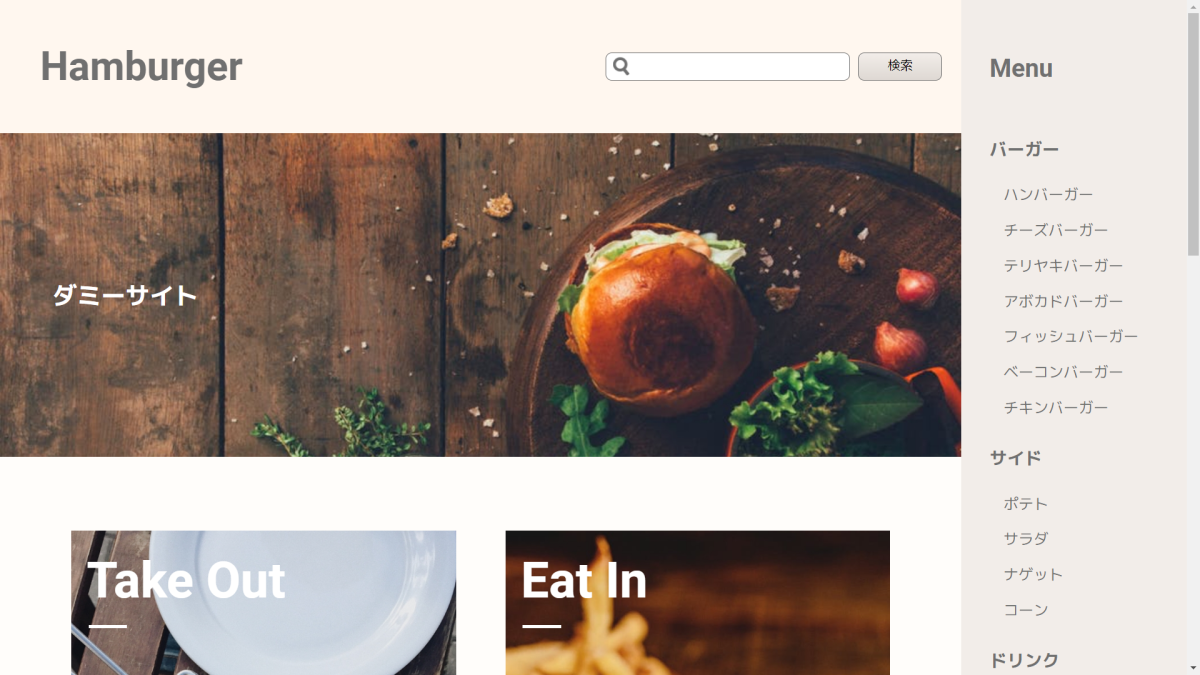
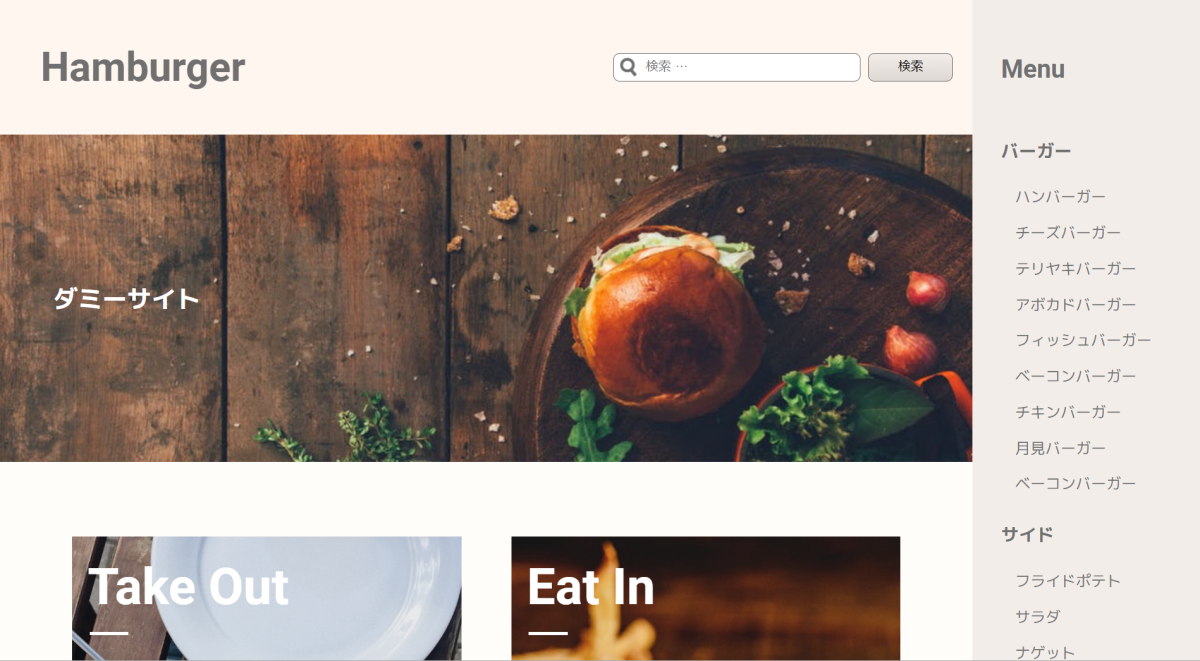
ページネーション完成

diff --git a/css/style.min.css b/css/style.min.css
@@ -1,2 +1,2 @@
-body{background-color:#fffdfa}body.fixed{overflow:hidden}h5,h6{margin:0}a{text-decoration:none}ol,ul{padding:0;margin:0}nav ul{list-style:none}.l-grid{display:grid;grid-template-rows:170px 1fr 118px;grid-template-columns:1fr 19%;grid-template-areas:"header sidebar" "contents sidebar" "footer footer"}.l-grid__item1{grid-area:header}.l-grid__item2{grid-area:contents}.l-grid__item3{grid-area:sidebar}@media(max-width: 834px){.l-grid__item3{position:fixed;z-index:200;top:0;right:-100%;-webkit-transition:all .6s;transition:all .6s}.l-grid__item3.open{-webkit-transform:translateX(-44vw);transform:translateX(-44vw);z-index:200;height:100vh;overflow:auto}}@media(max-width: 834px)and (max-width: 640px){.l-grid__item3.open{-webkit-transform:translateX(-87vw);transform:translateX(-87vw)}}.l-grid__item4{grid-area:footer}@media(max-width: 834px){.l-grid{grid-template-columns:1fr;grid-template-areas:"header" "contents" "footer"}}.c-text__ttl--ja{font-family:"M+ Type-1 (general-j) Bold"}.c-text__ttl--e{font-family:"Roboto"}.c-text__sub-ttl--ja{font-family:"M+ Type-1 (general-j) Bold"}.c-text__sub-ttl--e{font-family:"Roboto"}.c-text--ja{font-family:"M+ Type-1 (general-j) Regular"}.c-text--e{font-family:"M+ M Type-1 (basic latin) Regular"}.c-line{width:49px;border-bottom:4px solid #fff;padding-bottom:10px}.c-bg{background-size:cover;background-repeat:no-repeat;background-position:center}.c-bg--white{background-color:rgba(255,255,255,.8)}.c-bg--black{background-color:rgba(0,0,0,.5)}.c-form__input{border:1px solid #707070;border-radius:.5em}.c-form__button{border:1px solid #707070;border-radius:.5em}.c-button{cursor:pointer;font-family:"Roboto"}.c-overlay{display:none;position:fixed;background:rgba(0,0,0,.5);width:100%;height:100%;top:0;left:0;right:0;bottom:0;z-index:100}.c-titlevisual{height:392px;width:100%;display:-webkit-box;display:-ms-flexbox;display:flex;-webkit-box-align:center;-ms-flex-align:center;align-items:center}@media(max-width: 640px){.c-titlevisual{height:177px}}.c-titlevisual__title{color:#fff;font-size:47px;padding-left:67.4px}@media(max-width: 640px){.c-titlevisual__title{font-size:28px;padding-left:20px}}.c-contents-wrapper{display:-webkit-box;display:-ms-flexbox;display:flex;-webkit-box-orient:vertical;-webkit-box-direction:normal;-ms-flex-direction:column;flex-direction:column;-webkit-box-pack:justify;-ms-flex-pack:justify;justify-content:space-between;height:calc(100% - 187px)}@media(max-width: 834px){.c-contents-wrapper{height:calc(100% - 222px)}}.c-container{width:87%;margin:0 auto;padding:47px 0}@media(max-width: 834px){.c-container{width:90%;padding:28px 0}}@media(max-width: 640px){.c-container{padding:23.5px 0}}.c-card{position:relative;width:100%;font-family:"M+ Type-1 (general-j) Bold";display:-webkit-box;display:-ms-flexbox;display:flex;margin-bottom:23.5px}@media(max-width: 834px){.c-card{margin-bottom:16px}}@media(max-width: 640px){.c-card{-webkit-box-orient:vertical;-webkit-box-direction:normal;-ms-flex-direction:column;flex-direction:column}}.c-card__thumbnail{width:50%}@media(max-width: 640px){.c-card__thumbnail{width:100%}}.c-card__contents{width:50%;display:-webkit-box;display:-ms-flexbox;display:flex;-webkit-box-orient:vertical;-webkit-box-direction:normal;-ms-flex-direction:column;flex-direction:column;-webkit-box-pack:center;-ms-flex-pack:center;justify-content:center}@media(max-width: 640px){.c-card__contents{width:100%}}.c-card__description{font-family:"M+ Type-1 (general-j) Regular"}.c-card__link{display:block;position:absolute;top:0;left:0;width:100%;height:100%}.c-pagination{margin:50px 0;font-size:12.5px;color:#707070;display:-webkit-box;display:-ms-flexbox;display:flex;-webkit-box-pack:center;-ms-flex-pack:center;justify-content:center;-webkit-box-align:center;-ms-flex-align:center;align-items:center}@media(max-width: 834px){.c-pagination{margin:23.5px 0}}.c-pagination__page-count{font-family:"Roboto";margin-right:8px}@media(max-width: 640px){.c-pagination__page-count{display:none}}.c-pagination__ul{display:-webkit-box;display:-ms-flexbox;display:flex}.c-pagination__li{font-family:"Roboto";margin:0 7px;padding:4px 10px;border:1px solid #707070}.c-pagination__li:first-child,.c-pagination__li:last-child{border:none;margin:0}.c-pagination__li:nth-child(2){color:#fff;background-color:#3c2b1c}@media(max-width: 640px){.c-pagination__li{margin:0 5px}.c-pagination__li:not(:first-child):not(:last-child){visibility:hidden}.c-pagination__li:first-child::after{content:" 前へ";font-family:"M+ Type-1 (general-j) Regular";white-space:nowrap}.c-pagination__li:last-child::before{content:"次へ ";font-family:"M+ Type-1 (general-j) Regular";white-space:nowrap}}.p-header{width:100%;background-color:#fff7ef;color:#707070;display:-webkit-box;display:-ms-flexbox;display:flex;-webkit-box-pack:justify;-ms-flex-pack:justify;justify-content:space-between;-webkit-box-align:center;-ms-flex-align:center;align-items:center}@media(max-width: 834px){.p-header{-webkit-box-orient:vertical;-webkit-box-direction:normal;-ms-flex-direction:column;flex-direction:column;-webkit-box-pack:center;-ms-flex-pack:center;justify-content:center;-webkit-box-align:center;-ms-flex-align:center;align-items:center;position:relative}}.p-header__logo{font-size:3.3333333333vw;line-height:1.325;margin-left:4.18%}@media(max-width: 834px){.p-header__logo{font-size:35px;margin-left:0;margin-bottom:29px}}.p-header a{color:#707070}.p-sidebar{width:100%;background-color:#f2ede9;color:#707070;padding-left:12.5%}@media(max-width: 834px){.p-sidebar{padding-left:5.5vw}}@media(max-width: 640px){.p-sidebar{padding-left:10vw}}.p-sidebar__logo{margin-top:63px;margin-bottom:63px;font-size:2.0833333333vw}@media(max-width: 834px){.p-sidebar__logo{visibility:hidden}}.p-sidebar .menu-item-object-category{font-family:"M+ Type-1 (general-j) Bold";font-size:1.4583333333vw}@media(max-width: 834px){.p-sidebar .menu-item-object-category{font-size:18.8px}}.p-sidebar .sub-menu:last-child{padding-bottom:27px}.p-sidebar .menu-item-object-post{padding-left:7%;padding-bottom:16.6px;font-family:"M+ Type-1 (general-j) Regular";font-size:1.25vw}@media(max-width: 834px){.p-sidebar .menu-item-object-post{font-size:15.7px}}.p-sidebar .menu-item-object-post:first-child{padding-top:27px}.p-sidebar .menu-item-object-post:last-child{padding-bottom:6.6px}@media(max-width: 834px){.p-sidebar .menu-item-object-post{padding-left:2vw}}@media(max-width: 640px){.p-sidebar .menu-item-object-post{padding-left:3.5vw}}.p-sidebar a{color:#707070}.p-sidebar a:hover{color:#b8afa7}.p-footer{background-size:cover;background-repeat:no-repeat;background-image:url(../img/footer-bg-pc.jpg);color:#fff;display:-webkit-box;display:-ms-flexbox;display:flex;-webkit-box-pack:center;-ms-flex-pack:center;justify-content:center;-webkit-box-align:center;-ms-flex-align:center;align-items:center}.p-footer__wrapper{text-align:center}.p-footer ul.menu{display:-webkit-box;display:-ms-flexbox;display:flex;font-family:"M+ Type-1 (general-j) Regular";font-size:15.7px;margin-bottom:19px}.p-footer li.menu-item{padding:0 14px;border-right:1px solid #fff}.p-footer li.menu-item:last-of-type{border-right:0}.p-footer__copyright{font-family:"M+ M Type-1 (basic latin) Regular";font-size:11px}.p-footer a{color:#fff}.p-search-form{width:35%;height:21%;position:relative;margin-right:2%;display:-webkit-box;display:-ms-flexbox;display:flex;-webkit-box-pack:justify;-ms-flex-pack:justify;justify-content:space-between}@media(max-width: 834px){.p-search-form{width:65.5%}}.p-search-form::before{content:"";width:23px;height:23px;background:url(../img/search-icon.png) no-repeat center center/auto 100%;display:inline-block;position:absolute;top:50%;-webkit-transform:translateY(-50%);transform:translateY(-50%);left:8px}.p-search-form__label{width:0;height:0}.p-search-form__input{padding:3px 0 3px 2.5em;margin-left:-9px;width:72.6%}.p-search-form__button{width:25%;background-image:-webkit-gradient(linear, left bottom, left top, from(#DED8D3), to(#F2EDE9));background-image:linear-gradient(0deg, #DED8D3, #F2EDE9)}.p-mainvisual{height:415px;width:100%;background-image:url(../img/mainvisual-pc.jpg);display:-webkit-box;display:-ms-flexbox;display:flex;-webkit-box-align:center;-ms-flex-align:center;align-items:center}@media(max-width: 834px){.p-mainvisual{height:230px}}.p-mainvisual__title{color:#fff;font-size:31px;padding-left:67.4px}@media(max-width: 834px){.p-mainvisual__title{font-size:28px}}@media(max-width: 640px){.p-mainvisual__title{padding-left:20px}}.p-page-title{height:187px;width:100%;background-image:url(../img/archive-title-pc.jpg)}@media(max-width: 834px){.p-page-title{height:222px;background-image:url(../img/archive-title-ipad.jpg)}}@media(max-width: 640px){.p-page-title{background-size:auto;background-position:left center}}.p-page-title__wrapper{width:100%;height:100%;display:-webkit-box;display:-ms-flexbox;display:flex;-webkit-box-align:center;-ms-flex-align:center;align-items:center}@media(max-width: 640px){.p-page-title__wrapper{-webkit-box-orient:vertical;-webkit-box-direction:normal;-ms-flex-direction:column;flex-direction:column;-webkit-box-pack:center;-ms-flex-pack:center;justify-content:center;-webkit-box-align:normal;-ms-flex-align:normal;align-items:normal;padding-left:29px}}.p-page-title__main{color:#fff;font-size:47px;padding-left:67.4px}@media(max-width: 640px){.p-page-title__main{padding-left:0;font-size:28px}}.p-page-title__sub{color:#fff;font-size:12.5px;padding-left:15.7px}@media(max-width: 640px){.p-page-title__sub{padding-left:0;font-size:12.5px}}.p-single-titlevisual{background-image:url(../img/single-title-pc.jpg)}.p-page-titlevisual{background-image:url(../img/page-title-pc.jpg)}.p-info{color:#3c2a10}.p-info__head{margin-bottom:20px;font-size:28px}@media(max-width: 834px){.p-info__head{margin-bottom:19.6px}}@media(max-width: 640px){.p-info__head{margin-bottom:23.5px}}.p-info__text{margin-bottom:54px;font-size:12.5px}@media(max-width: 834px){.p-info__text{margin-bottom:29px}}@media(max-width: 640px){.p-info__text{margin-bottom:15px}}.p-article{font-family:"M+ Type-1 (general-j) Regular";font-size:12.5px;color:#3c2a10}@media(max-width: 834px){.p-article__container{width:85.6%;padding:47px 0}}@media(max-width: 640px){.p-article__container{padding:23.5px 0}}.p-article h1,.p-article h2,.p-article h3,.p-article h4,.p-article h5,.p-article h6{font-family:"M+ Type-1 (general-j) Bold";margin-bottom:47px}@media(max-width: 640px){.p-article h1,.p-article h2,.p-article h3,.p-article h4,.p-article h5,.p-article h6{margin-bottom:23.5px}}.p-article h1{font-size:34px}@media(max-width: 640px){.p-article h1{font-size:25px}}.p-article h2{font-size:28px}@media(max-width: 640px){.p-article h2{font-size:22px}}.p-article h3{font-size:22px}@media(max-width: 640px){.p-article h3{font-size:19px}}.p-article h4,.p-article h5,.p-article h6{font-size:15.7px}.p-article p{margin-bottom:47px}@media(max-width: 640px){.p-article p{margin-bottom:23.5px}}.p-article a{text-decoration:underline;color:#4a6c9b}.p-article blockquote{background-color:#f5f5f5;padding:39px;margin-bottom:47px}@media(max-width: 640px){.p-article blockquote{padding:23.5px 15.7px;margin-bottom:23.5px}}.p-article img{margin-bottom:47px;-o-object-fit:contain;object-fit:contain}@media(max-width: 640px){.p-article img{margin-bottom:23.5px}}.p-article figure img{margin-bottom:0}.p-article div{margin-bottom:47px}@media(max-width: 640px){.p-article div{margin-bottom:23.5px}}.p-article div div,.p-article div p,.p-article div h1,.p-article div h2,.p-article div h3,.p-article div h4,.p-article div h5,.p-article div h6,.p-article div a,.p-article div ol,.p-article div ul,.p-article div img{margin-bottom:0}.p-article ol,.p-article ul{margin-bottom:23.5px}.p-article ol:not(.blocks-gallery-grid),.p-article ul:not(.blocks-gallery-grid){padding-left:1rem}.p-article ol ol,.p-article ol ul,.p-article ul ol,.p-article ul ul{margin-bottom:0}.p-article code{display:inline-block;width:100%;font-family:"M+ M Type-1 (basic latin) Regular";background-color:#f5f5f5;padding:39px;margin-bottom:47px}@media(max-width: 640px){.p-article code{margin-bottom:23.5px}}.p-article pre{font-family:"M+ M Type-1 (basic latin) Regular"}.p-article table,.p-article td{border-collapse:collapse;border:1px solid #707070}.p-article table{width:100%;margin-bottom:47px}@media(max-width: 640px){.p-article table{margin-bottom:23.5px}}.p-article td{height:60px;padding-left:23.5px}.p-article .wp-block-button__link{color:#3c2a10;text-decoration:none;border:1px solid #707070;border-radius:12px;background-image:-webkit-gradient(linear, left bottom, left top, from(#DED8D3), to(#F2EDE9));background-image:linear-gradient(0deg, #DED8D3, #F2EDE9);font-family:"M+ Type-1 (general-j) Bold"}@media(max-width: 640px){.p-article .wp-block-button__link{max-width:100%}}.p-food-menu{width:100%}.p-food-menu__ul{color:#3c2a10;display:-webkit-box;display:-ms-flexbox;display:flex;-webkit-box-pack:center;-ms-flex-pack:center;justify-content:center;margin:94px auto 105px}@media(max-width: 834px){.p-food-menu__ul{margin:4.8% 0}}@media(max-width: 640px){.p-food-menu__ul{-webkit-box-orient:vertical;-webkit-box-direction:normal;-ms-flex-direction:column;flex-direction:column;-webkit-box-align:center;-ms-flex-align:center;align-items:center;margin:5.3% 0}}.p-food-menu__li{position:relative;min-height:900px;display:-webkit-box;display:-ms-flexbox;display:flex;-webkit-box-orient:vertical;-webkit-box-direction:normal;-ms-flex-direction:column;flex-direction:column;-webkit-box-pack:justify;-ms-flex-pack:justify;justify-content:space-between;width:40%;background-position:top center;background-repeat:no-repeat}@media(max-width: 834px){.p-food-menu__li{width:43%;min-height:600px}}@media(max-width: 640px){.p-food-menu__li{width:89%}}.p-food-menu__li:first-child{background-image:url(../img/takeout-pc.jpg)}.p-food-menu__li:nth-child(2){background-image:url(../img/eatin-pc.jpg);margin-left:5.15%}@media(max-width: 834px){.p-food-menu__li:nth-child(2){margin-left:4.8%}}@media(max-width: 640px){.p-food-menu__li:nth-child(2){margin-left:0;margin-top:20px}}.p-food-menu__title{color:#fff;font-size:4.1666666667vw;margin-top:15px;margin-left:4%}@media(max-width: 834px){.p-food-menu__title{font-size:35px}}.p-food-menu__line{margin-left:4.5%}@media(max-width: 834px){.p-food-menu__line{width:30px;padding-bottom:17px}}@media(max-width: 640px){.p-food-menu__line{padding-bottom:15px}}.p-food-menu__link{display:block;position:absolute;top:0;left:0;width:100%;height:100%}.p-food-menu__dl{font-size:19px;margin:3.2%;padding:13px 4.27% 13px 3.24%}@media(max-width: 834px){.p-food-menu__dl{font-size:17px}}.p-food-menu__dt{font-family:"M+ M Type-1 (basic latin) Bold";font-size:19px;margin-bottom:20px}.p-food-menu__dd{font-size:12.5px}@media(max-width: 834px){.p-food-menu__dd{font-size:11px}}.p-access{width:100%;background-image:url(../img/map.jpg);background-position:0 50%}.p-access__map-layer{background-color:rgba(0,0,0,.4);position:relative}.p-access__contents-area{width:60%}@media(max-width: 834px){.p-access__contents-area{width:100%}}.p-access__bg-layer{width:60%;height:100%;background-color:rgba(0,0,0,.29);position:absolute;top:0;left:0}@media(max-width: 834px){.p-access__bg-layer{width:100%}}@media(max-width: 640px){.p-access__bg-layer{width:100%;height:60%}}.p-access__wrapper{position:relative;z-index:100;width:73%;padding-top:65px;padding-bottom:52.5px;margin:0 auto}@media(max-width: 834px){.p-access__wrapper{width:90%;padding:30px 0}}@media(max-width: 640px){.p-access__wrapper{width:80%}}.p-access__title{color:#fff;font-size:28px}@media(max-width: 834px){.p-access__title{font-size:23.5px}}.p-access__line{width:60px;border-width:2px;padding-bottom:0;margin-top:43.5px;margin-bottom:49.8px}@media(max-width: 834px){.p-access__line{margin:15px 0}}.p-access__text{font-family:"M+ Type-1 (general-j) Bold";color:#fff;font-size:12.5px;line-height:2.06}@media(max-width: 834px){.p-access__text{font-size:11px}}.p-menu-button__open{display:none;color:#707070}@media(max-width: 834px){.p-menu-button__open{display:block;position:absolute;top:8.3%;right:3%;font-size:27px}}@media(max-width: 640px){.p-menu-button__open{font-size:20px}}.p-menu-button__close{visibility:hidden;position:fixed;top:3%;right:3%;height:32px;z-index:999}.p-menu-button__close div{position:relative;width:32px}.p-menu-button__close div span{position:absolute;left:0;width:100%;height:4px;display:block;background:#707070;-webkit-transition:.3s ease-in-out;transition:.3s ease-in-out}.p-menu-button__close div span:nth-child(1){top:calc(32px / 3 - 2px)}.p-menu-button__close div span:nth-child(2){top:calc(32px / 3 * 2 - 2px)}.p-menu-button__close.active{visibility:visible}.p-menu-button__close.active span:nth-child(1){top:11px;-webkit-transform:rotate(45deg);transform:rotate(45deg)}.p-menu-button__close.active span:nth-child(2){top:11px;-webkit-transform:rotate(-45deg);transform:rotate(-45deg)}.p-menu-card{color:#fff}.p-menu-card__thumbnail{-o-object-fit:cover;object-fit:cover;background-color:#f2ede9}@media(max-width: 640px){.p-menu-card__thumbnail{max-height:250px}}.p-menu-card__contents{padding:41.5px 4.65% 47px;background-color:#3c2b1c}@media(max-width: 834px){.p-menu-card__contents{padding:23px 4.6% 31px}}.p-menu-card__contents h2:not(.c-card__title){margin-bottom:13.3px;font-size:19px}@media(max-width: 834px){.p-menu-card__contents h2:not(.c-card__title){margin-bottom:7.84px;font-size:12.5px}}.p-menu-card__contents p:not(.c-card__button){font-family:"M+ Type-1 (general-j) Regular";margin-bottom:47px;font-size:12.5px}@media(max-width: 834px){.p-menu-card__contents p:not(.c-card__button){margin-bottom:31px;font-size:12.5px}}.p-menu-card__title{margin-bottom:36.9px;font-size:28px}@media(max-width: 834px){.p-menu-card__title{margin-bottom:19px;font-size:15.7px}}.p-menu-card__button{font-size:12.5px;display:inline-block;padding:21px 83px;margin:0 auto;color:#707070;background-color:#fff;border-radius:50px}@media(max-width: 834px){.p-menu-card__button{padding:8px 32px}}
+body{background-color:#fffdfa}body.fixed{overflow:hidden}h5,h6{margin:0}a{text-decoration:none}ol,ul{padding:0;margin:0}nav ul{list-style:none}.l-grid{display:grid;grid-template-rows:170px 1fr 118px;grid-template-columns:1fr 19%;grid-template-areas:"header sidebar" "contents sidebar" "footer footer"}.l-grid__item1{grid-area:header}.l-grid__item2{grid-area:contents}.l-grid__item3{grid-area:sidebar}@media(max-width: 834px){.l-grid__item3{position:fixed;z-index:200;top:0;right:-100%;-webkit-transition:all .6s;transition:all .6s}.l-grid__item3.open{-webkit-transform:translateX(-44vw);transform:translateX(-44vw);z-index:200;height:100vh;overflow:auto}}@media(max-width: 834px)and (max-width: 640px){.l-grid__item3.open{-webkit-transform:translateX(-87vw);transform:translateX(-87vw)}}.l-grid__item4{grid-area:footer}@media(max-width: 834px){.l-grid{grid-template-columns:1fr;grid-template-areas:"header" "contents" "footer"}}.c-text__ttl--ja{font-family:"M+ Type-1 (general-j) Bold"}.c-text__ttl--e{font-family:"Roboto"}.c-text__sub-ttl--ja{font-family:"M+ Type-1 (general-j) Bold"}.c-text__sub-ttl--e{font-family:"Roboto"}.c-text--ja{font-family:"M+ Type-1 (general-j) Regular"}.c-text--e{font-family:"M+ M Type-1 (basic latin) Regular"}.c-line{width:49px;border-bottom:4px solid #fff;padding-bottom:10px}.c-bg{background-size:cover;background-repeat:no-repeat;background-position:center}.c-bg--white{background-color:rgba(255,255,255,.8)}.c-bg--black{background-color:rgba(0,0,0,.5)}.c-form__input{border:1px solid #707070;border-radius:.5em}.c-form__button{border:1px solid #707070;border-radius:.5em}.c-button{cursor:pointer;font-family:"Roboto"}.c-overlay{display:none;position:fixed;background:rgba(0,0,0,.5);width:100%;height:100%;top:0;left:0;right:0;bottom:0;z-index:100}.c-titlevisual{height:392px;width:100%;display:-webkit-box;display:-ms-flexbox;display:flex;-webkit-box-align:center;-ms-flex-align:center;align-items:center}@media(max-width: 640px){.c-titlevisual{height:177px}}.c-titlevisual__title{color:#fff;font-size:47px;padding-left:67.4px}@media(max-width: 640px){.c-titlevisual__title{font-size:28px;padding-left:20px}}.c-contents-wrapper{display:-webkit-box;display:-ms-flexbox;display:flex;-webkit-box-orient:vertical;-webkit-box-direction:normal;-ms-flex-direction:column;flex-direction:column;-webkit-box-pack:justify;-ms-flex-pack:justify;justify-content:space-between;height:calc(100% - 187px)}@media(max-width: 834px){.c-contents-wrapper{height:calc(100% - 222px)}}.c-container{width:87%;margin:0 auto;padding:47px 0}@media(max-width: 834px){.c-container{width:90%;padding:28px 0}}@media(max-width: 640px){.c-container{padding:23.5px 0}}.c-card{position:relative;width:100%;font-family:"M+ Type-1 (general-j) Bold";display:-webkit-box;display:-ms-flexbox;display:flex;margin-bottom:23.5px}@media(max-width: 834px){.c-card{margin-bottom:16px}}@media(max-width: 640px){.c-card{-webkit-box-orient:vertical;-webkit-box-direction:normal;-ms-flex-direction:column;flex-direction:column}}.c-card__thumbnail{width:50%}@media(max-width: 640px){.c-card__thumbnail{width:100%}}.c-card__contents{width:50%;display:-webkit-box;display:-ms-flexbox;display:flex;-webkit-box-orient:vertical;-webkit-box-direction:normal;-ms-flex-direction:column;flex-direction:column;-webkit-box-pack:center;-ms-flex-pack:center;justify-content:center}@media(max-width: 640px){.c-card__contents{width:100%}}.c-card__description{font-family:"M+ Type-1 (general-j) Regular"}.c-card__link{display:block;position:absolute;top:0;left:0;width:100%;height:100%}.c-pagination{font-size:12.5px;color:#707070}.c-pagination .wp-pagenavi{width:87%;margin:50px auto;display:-webkit-box;display:-ms-flexbox;display:flex;-webkit-box-pack:center;-ms-flex-pack:center;justify-content:center;-webkit-box-align:center;-ms-flex-align:center;align-items:center}@media(max-width: 834px){.c-pagination .wp-pagenavi{width:90%;margin:23.5px auto}}@media(max-width: 640px){.c-pagination .wp-pagenavi{-webkit-box-pack:justify;-ms-flex-pack:justify;justify-content:space-between}}.c-pagination .wp-pagenavi a,.c-pagination .wp-pagenavi span{display:inline-block;font-family:"Roboto"}.c-pagination .wp-pagenavi a{color:#707070}.c-pagination .wp-pagenavi .pages{margin-right:14px}@media(max-width: 640px){.c-pagination .wp-pagenavi .pages{display:none}}.c-pagination .wp-pagenavi .current,.c-pagination .wp-pagenavi a.page{margin:0 7px;padding:0 10px;border:1px solid #707070;width:30px;height:30px;line-height:30px;text-align:center}@media(max-width: 640px){.c-pagination .wp-pagenavi .current,.c-pagination .wp-pagenavi a.page{display:none}}.c-pagination .wp-pagenavi .current:hover,.c-pagination .wp-pagenavi a.page:hover{color:#fff;background-color:#3c2b1c}.c-pagination .wp-pagenavi .current{color:#fff;background-color:#3c2b1c}.c-pagination .wp-pagenavi .previouspostslink{margin-right:7px}@media(max-width: 640px){.c-pagination .wp-pagenavi .previouspostslink::after{content:" 前へ";font-family:"M+ Type-1 (general-j) Regular"}}.c-pagination .wp-pagenavi .nextpostslink{margin-left:7px}@media(max-width: 640px){.c-pagination .wp-pagenavi .nextpostslink::before{content:"次へ ";font-family:"M+ Type-1 (general-j) Regular"}}.p-header{width:100%;background-color:#fff7ef;color:#707070;display:-webkit-box;display:-ms-flexbox;display:flex;-webkit-box-pack:justify;-ms-flex-pack:justify;justify-content:space-between;-webkit-box-align:center;-ms-flex-align:center;align-items:center}@media(max-width: 834px){.p-header{-webkit-box-orient:vertical;-webkit-box-direction:normal;-ms-flex-direction:column;flex-direction:column;-webkit-box-pack:center;-ms-flex-pack:center;justify-content:center;-webkit-box-align:center;-ms-flex-align:center;align-items:center;position:relative}}.p-header__logo{font-size:3.3333333333vw;line-height:1.325;margin-left:4.18%}@media(max-width: 834px){.p-header__logo{font-size:35px;margin-left:0;margin-bottom:29px}}.p-header a{color:#707070}.p-sidebar{width:100%;background-color:#f2ede9;color:#707070;padding-left:12.5%}@media(max-width: 834px){.p-sidebar{padding-left:5.5vw}}@media(max-width: 640px){.p-sidebar{padding-left:10vw}}.p-sidebar__logo{margin-top:63px;margin-bottom:63px;font-size:2.0833333333vw}@media(max-width: 834px){.p-sidebar__logo{visibility:hidden}}.p-sidebar .menu-item-object-category{font-family:"M+ Type-1 (general-j) Bold";font-size:1.4583333333vw}@media(max-width: 834px){.p-sidebar .menu-item-object-category{font-size:18.8px}}.p-sidebar .sub-menu:last-child{padding-bottom:27px}.p-sidebar .menu-item-object-post{padding-left:7%;padding-bottom:16.6px;font-family:"M+ Type-1 (general-j) Regular";font-size:1.25vw}@media(max-width: 834px){.p-sidebar .menu-item-object-post{font-size:15.7px}}.p-sidebar .menu-item-object-post:first-child{padding-top:27px}.p-sidebar .menu-item-object-post:last-child{padding-bottom:6.6px}@media(max-width: 834px){.p-sidebar .menu-item-object-post{padding-left:2vw}}@media(max-width: 640px){.p-sidebar .menu-item-object-post{padding-left:3.5vw}}.p-sidebar a{color:#707070}.p-sidebar a:hover{color:#b8afa7}.p-footer{background-size:cover;background-repeat:no-repeat;background-image:url(../img/footer-bg-pc.jpg);color:#fff;display:-webkit-box;display:-ms-flexbox;display:flex;-webkit-box-pack:center;-ms-flex-pack:center;justify-content:center;-webkit-box-align:center;-ms-flex-align:center;align-items:center}.p-footer__wrapper{text-align:center}.p-footer ul.menu{display:-webkit-box;display:-ms-flexbox;display:flex;font-family:"M+ Type-1 (general-j) Regular";font-size:15.7px;margin-bottom:19px}.p-footer li.menu-item{padding:0 14px;border-right:1px solid #fff}.p-footer li.menu-item:last-of-type{border-right:0}.p-footer__copyright{font-family:"M+ M Type-1 (basic latin) Regular";font-size:11px}.p-footer a{color:#fff}.p-search-form{width:35%;height:21%;position:relative;margin-right:2%;display:-webkit-box;display:-ms-flexbox;display:flex;-webkit-box-pack:justify;-ms-flex-pack:justify;justify-content:space-between}@media(max-width: 834px){.p-search-form{width:65.5%}}.p-search-form::before{content:"";width:23px;height:23px;background:url(../img/search-icon.png) no-repeat center center/auto 100%;display:inline-block;position:absolute;top:50%;-webkit-transform:translateY(-50%);transform:translateY(-50%);left:8px}.p-search-form__label{width:0;height:0}.p-search-form__input{padding:3px 0 3px 2.5em;margin-left:-9px;width:72.6%}.p-search-form__button{width:25%;background-image:-webkit-gradient(linear, left bottom, left top, from(#DED8D3), to(#F2EDE9));background-image:linear-gradient(0deg, #DED8D3, #F2EDE9)}.p-mainvisual{height:415px;width:100%;background-image:url(../img/mainvisual-pc.jpg);display:-webkit-box;display:-ms-flexbox;display:flex;-webkit-box-align:center;-ms-flex-align:center;align-items:center}@media(max-width: 834px){.p-mainvisual{height:230px}}.p-mainvisual__title{color:#fff;font-size:31px;padding-left:67.4px}@media(max-width: 834px){.p-mainvisual__title{font-size:28px}}@media(max-width: 640px){.p-mainvisual__title{padding-left:20px}}.p-page-title{height:187px;width:100%;background-image:url(../img/archive-title-pc.jpg)}@media(max-width: 834px){.p-page-title{height:222px;background-image:url(../img/archive-title-ipad.jpg)}}@media(max-width: 640px){.p-page-title{background-size:auto;background-position:left center}}.p-page-title__wrapper{width:100%;height:100%;display:-webkit-box;display:-ms-flexbox;display:flex;-webkit-box-align:center;-ms-flex-align:center;align-items:center}@media(max-width: 640px){.p-page-title__wrapper{-webkit-box-orient:vertical;-webkit-box-direction:normal;-ms-flex-direction:column;flex-direction:column;-webkit-box-pack:center;-ms-flex-pack:center;justify-content:center;-webkit-box-align:normal;-ms-flex-align:normal;align-items:normal;padding-left:29px}}.p-page-title__main{color:#fff;font-size:47px;padding-left:67.4px}@media(max-width: 640px){.p-page-title__main{padding-left:0;font-size:28px}}.p-page-title__sub{color:#fff;font-size:12.5px;padding-left:15.7px}@media(max-width: 640px){.p-page-title__sub{padding-left:0;font-size:12.5px}}.p-single-titlevisual{background-image:url(../img/single-title-pc.jpg)}.p-page-titlevisual{background-image:url(../img/page-title-pc.jpg)}.p-info{color:#3c2a10}.p-info__head{margin-bottom:20px;font-size:28px}@media(max-width: 834px){.p-info__head{margin-bottom:19.6px}}@media(max-width: 640px){.p-info__head{margin-bottom:23.5px}}.p-info__text{margin-bottom:54px;font-size:12.5px}@media(max-width: 834px){.p-info__text{margin-bottom:29px}}@media(max-width: 640px){.p-info__text{margin-bottom:15px}}.p-article{font-family:"M+ Type-1 (general-j) Regular";font-size:12.5px;color:#3c2a10}@media(max-width: 834px){.p-article__container{width:85.6%;padding:47px 0}}@media(max-width: 640px){.p-article__container{padding:23.5px 0}}.p-article h1,.p-article h2,.p-article h3,.p-article h4,.p-article h5,.p-article h6{font-family:"M+ Type-1 (general-j) Bold";margin-bottom:47px}@media(max-width: 640px){.p-article h1,.p-article h2,.p-article h3,.p-article h4,.p-article h5,.p-article h6{margin-bottom:23.5px}}.p-article h1{font-size:34px}@media(max-width: 640px){.p-article h1{font-size:25px}}.p-article h2{font-size:28px}@media(max-width: 640px){.p-article h2{font-size:22px}}.p-article h3{font-size:22px}@media(max-width: 640px){.p-article h3{font-size:19px}}.p-article h4,.p-article h5,.p-article h6{font-size:15.7px}.p-article p{margin-bottom:47px}@media(max-width: 640px){.p-article p{margin-bottom:23.5px}}.p-article a{text-decoration:underline;color:#4a6c9b}.p-article blockquote{background-color:#f5f5f5;padding:39px;margin-bottom:47px}@media(max-width: 640px){.p-article blockquote{padding:23.5px 15.7px;margin-bottom:23.5px}}.p-article img{margin-bottom:47px;-o-object-fit:contain;object-fit:contain}@media(max-width: 640px){.p-article img{margin-bottom:23.5px}}.p-article figure img{margin-bottom:0}.p-article div{margin-bottom:47px}@media(max-width: 640px){.p-article div{margin-bottom:23.5px}}.p-article div div,.p-article div p,.p-article div h1,.p-article div h2,.p-article div h3,.p-article div h4,.p-article div h5,.p-article div h6,.p-article div a,.p-article div ol,.p-article div ul,.p-article div img{margin-bottom:0}.p-article ol,.p-article ul{margin-bottom:23.5px}.p-article ol:not(.blocks-gallery-grid),.p-article ul:not(.blocks-gallery-grid){padding-left:1rem}.p-article ol ol,.p-article ol ul,.p-article ul ol,.p-article ul ul{margin-bottom:0}.p-article code{display:inline-block;width:100%;font-family:"M+ M Type-1 (basic latin) Regular";background-color:#f5f5f5;padding:39px;margin-bottom:47px}@media(max-width: 640px){.p-article code{margin-bottom:23.5px}}.p-article pre{font-family:"M+ M Type-1 (basic latin) Regular"}.p-article table,.p-article td{border-collapse:collapse;border:1px solid #707070}.p-article table{width:100%;margin-bottom:47px}@media(max-width: 640px){.p-article table{margin-bottom:23.5px}}.p-article td{height:60px;padding-left:23.5px}.p-article .wp-block-button__link{color:#3c2a10;text-decoration:none;border:1px solid #707070;border-radius:12px;background-image:-webkit-gradient(linear, left bottom, left top, from(#DED8D3), to(#F2EDE9));background-image:linear-gradient(0deg, #DED8D3, #F2EDE9);font-family:"M+ Type-1 (general-j) Bold"}@media(max-width: 640px){.p-article .wp-block-button__link{max-width:100%}}.p-food-menu{width:100%}.p-food-menu__ul{color:#3c2a10;display:-webkit-box;display:-ms-flexbox;display:flex;-webkit-box-pack:center;-ms-flex-pack:center;justify-content:center;margin:94px auto 105px}@media(max-width: 834px){.p-food-menu__ul{margin:4.8% 0}}@media(max-width: 640px){.p-food-menu__ul{-webkit-box-orient:vertical;-webkit-box-direction:normal;-ms-flex-direction:column;flex-direction:column;-webkit-box-align:center;-ms-flex-align:center;align-items:center;margin:5.3% 0}}.p-food-menu__li{position:relative;min-height:900px;display:-webkit-box;display:-ms-flexbox;display:flex;-webkit-box-orient:vertical;-webkit-box-direction:normal;-ms-flex-direction:column;flex-direction:column;-webkit-box-pack:justify;-ms-flex-pack:justify;justify-content:space-between;width:40%;background-position:top center;background-repeat:no-repeat}@media(max-width: 834px){.p-food-menu__li{width:43%;min-height:600px}}@media(max-width: 640px){.p-food-menu__li{width:89%}}.p-food-menu__li:first-child{background-image:url(../img/takeout-pc.jpg)}.p-food-menu__li:nth-child(2){background-image:url(../img/eatin-pc.jpg);margin-left:5.15%}@media(max-width: 834px){.p-food-menu__li:nth-child(2){margin-left:4.8%}}@media(max-width: 640px){.p-food-menu__li:nth-child(2){margin-left:0;margin-top:20px}}.p-food-menu__title{color:#fff;font-size:4.1666666667vw;margin-top:15px;margin-left:4%}@media(max-width: 834px){.p-food-menu__title{font-size:35px}}.p-food-menu__line{margin-left:4.5%}@media(max-width: 834px){.p-food-menu__line{width:30px;padding-bottom:17px}}@media(max-width: 640px){.p-food-menu__line{padding-bottom:15px}}.p-food-menu__link{display:block;position:absolute;top:0;left:0;width:100%;height:100%}.p-food-menu__dl{font-size:19px;margin:3.2%;padding:13px 4.27% 13px 3.24%}@media(max-width: 834px){.p-food-menu__dl{font-size:17px}}.p-food-menu__dt{font-family:"M+ M Type-1 (basic latin) Bold";font-size:19px;margin-bottom:20px}.p-food-menu__dd{font-size:12.5px}@media(max-width: 834px){.p-food-menu__dd{font-size:11px}}.p-access{width:100%;background-image:url(../img/map.jpg);background-position:0 50%}.p-access__map-layer{background-color:rgba(0,0,0,.4);position:relative}.p-access__contents-area{width:60%}@media(max-width: 834px){.p-access__contents-area{width:100%}}.p-access__bg-layer{width:60%;height:100%;background-color:rgba(0,0,0,.29);position:absolute;top:0;left:0}@media(max-width: 834px){.p-access__bg-layer{width:100%}}@media(max-width: 640px){.p-access__bg-layer{width:100%;height:60%}}.p-access__wrapper{position:relative;z-index:100;width:73%;padding-top:65px;padding-bottom:52.5px;margin:0 auto}@media(max-width: 834px){.p-access__wrapper{width:90%;padding:30px 0}}@media(max-width: 640px){.p-access__wrapper{width:80%}}.p-access__title{color:#fff;font-size:28px}@media(max-width: 834px){.p-access__title{font-size:23.5px}}.p-access__line{width:60px;border-width:2px;padding-bottom:0;margin-top:43.5px;margin-bottom:49.8px}@media(max-width: 834px){.p-access__line{margin:15px 0}}.p-access__text{font-family:"M+ Type-1 (general-j) Bold";color:#fff;font-size:12.5px;line-height:2.06}@media(max-width: 834px){.p-access__text{font-size:11px}}.p-menu-button__open{display:none;color:#707070}@media(max-width: 834px){.p-menu-button__open{display:block;position:absolute;top:8.3%;right:3%;font-size:27px}}@media(max-width: 640px){.p-menu-button__open{font-size:20px}}.p-menu-button__close{visibility:hidden;position:fixed;top:3%;right:3%;height:32px;z-index:999}.p-menu-button__close div{position:relative;width:32px}.p-menu-button__close div span{position:absolute;left:0;width:100%;height:4px;display:block;background:#707070;-webkit-transition:.3s ease-in-out;transition:.3s ease-in-out}.p-menu-button__close div span:nth-child(1){top:calc(32px / 3 - 2px)}.p-menu-button__close div span:nth-child(2){top:calc(32px / 3 * 2 - 2px)}.p-menu-button__close.active{visibility:visible}.p-menu-button__close.active span:nth-child(1){top:11px;-webkit-transform:rotate(45deg);transform:rotate(45deg)}.p-menu-button__close.active span:nth-child(2){top:11px;-webkit-transform:rotate(-45deg);transform:rotate(-45deg)}.p-menu-card{color:#fff}.p-menu-card__thumbnail{-o-object-fit:cover;object-fit:cover;background-color:#f2ede9}@media(max-width: 640px){.p-menu-card__thumbnail{max-height:250px}}.p-menu-card__contents{padding:41.5px 4.65% 47px;background-color:#3c2b1c}@media(max-width: 834px){.p-menu-card__contents{padding:23px 4.6% 31px}}.p-menu-card__contents h2:not(.c-card__title){margin-bottom:13.3px;font-size:19px}@media(max-width: 834px){.p-menu-card__contents h2:not(.c-card__title){margin-bottom:7.84px;font-size:12.5px}}.p-menu-card__contents p:not(.c-card__button){font-family:"M+ Type-1 (general-j) Regular";margin-bottom:47px;font-size:12.5px}@media(max-width: 834px){.p-menu-card__contents p:not(.c-card__button){margin-bottom:31px;font-size:12.5px}}.p-menu-card__title{margin-bottom:36.9px;font-size:28px}@media(max-width: 834px){.p-menu-card__title{margin-bottom:19px;font-size:15.7px}}.p-menu-card__button{font-size:12.5px;display:inline-block;padding:21px 83px;margin:0 auto;color:#707070;background-color:#fff;border-radius:50px}@media(max-width: 834px){.p-menu-card__button{padding:8px 32px}}
 /*# sourceMappingURL=style.min.css.map */

diff --git a/scss/object/component/_pagination.scss b/scss/object/component/_pagination.scss
@@ -2,52 +2,71 @@
 @use "../../foundation/mixin" as m;
 
 .c-pagination {
-    margin: 50px 0;
     font-size: 12.5px;
     color: v.$font-color--gray;
-    display: flex;
-    justify-content: center;
-    align-items: center;
-    @include m.mq( tablet ) {
-        margin: 23.5px 0;
-    }
-    &__page-count {
-        font-family: v.$font-Roboto-Bold;
-        margin-right: 8px;
-        @include m.mq( sp ) {
-            display: none;
-        }
-    }
-    &__ul {
+    .wp-pagenavi {
+        width: 87%;
+        margin: 50px auto;
         display: flex;
-    }
-    &__li {
-        font-family: v.$font-Roboto-Bold;
-        margin: 0 7px;
-        padding: 4px 10px;
-        border: 1px solid v.$font-color--gray;
-        &:first-child, &:last-child {
-            border: none;
-            margin: 0;
+        justify-content: center;
+        align-items: center;
+        @include m.mq( tablet ) {
+            width: 90%;
+            margin: 23.5px auto;
         }
-        &:nth-child(2) {
+        @include m.mq( sp ) {
+            justify-content: space-between;
+        }
+        a,span {
+            display: inline-block;
+            font-family: v.$font-Roboto-Bold;
+        }
+        a {
+            color: v.$font-color--gray;
+        }
+        .pages { /* 総ページ表記 */
+            margin-right: 14px;
+            @include m.mq( sp ) {
+                display: none;
+            }
+        }
+        .current,
+        a.page { /* ページボタン */
+            margin: 0 7px;
+            padding: 0 10px;
+            border: 1px solid v.$font-color--gray;
+            width: 30px;
+            height: 30px;
+            line-height: 30px;
+            text-align: center;
+            @include m.mq( sp ) {
+                display: none;
+            }
+            &:hover { /* ボタンをホバーしたとき */
+                color: v.$font-color--white;
+                background-color: v.$bgcolor--card;
+            }
+        }
+        .current { /* 現在のページ */
             color: v.$font-color--white;
             background-color: v.$bgcolor--card;
         }
-        @include m.mq( sp ) {
-            margin: 0 5px;
-            &:not(:first-child):not(:last-child) { /* 最初と最後以外は隠す */
-                visibility: hidden;
+        .previouspostslink { /* 前へ */
+            margin-right: 7px;
+            @include m.mq( sp ) {
+                &::after {
+                    content: " 前へ";
+                    font-family: v.$font-Mplus-j-Regular;
+                }
             }
-            &:first-child::after {
-                content: " 前へ";
-                font-family: v.$font-Mplus-j-Regular;
-                white-space: nowrap;
-            }
-            &:last-child::before {
-                content: "次へ ";
-                font-family: v.$font-Mplus-j-Regular;
-                white-space: nowrap;
+        }
+        .nextpostslink { /* 次へ */
+            margin-left: 7px;
+            @include m.mq( sp ) {
+                &::before {
+                    content: "次へ ";
+                    font-family: v.$font-Mplus-j-Regular;
+                }
             }
         }
     }

diff --git a/css/style.css b/css/style.css
@@ -272,9 +272,12 @@ nav ul {
 }
 
 .c-pagination {
-  margin: 50px 0;
   font-size: 12.5px;
   color: #707070;
+}
+.c-pagination .wp-pagenavi {
+  width: 87%;
+  margin: 50px auto;
   display: -webkit-box;
   display: -ms-flexbox;
   display: flex;
@@ -286,55 +289,80 @@ nav ul {
           align-items: center;
 }
 @media (max-width: 834px) {
-  .c-pagination {
-    margin: 23.5px 0;
+  .c-pagination .wp-pagenavi {
+    width: 90%;
+    margin: 23.5px auto;
   }
 }
-.c-pagination__page-count {
+@media (max-width: 640px) {
+  .c-pagination .wp-pagenavi {
+    -webkit-box-pack: justify;
+        -ms-flex-pack: justify;
+            justify-content: space-between;
+  }
+}
+.c-pagination .wp-pagenavi a, .c-pagination .wp-pagenavi span {
+  display: inline-block;
   font-family: "Roboto";
-  margin-right: 8px;
+}
+.c-pagination .wp-pagenavi a {
+  color: #707070;
+}
+.c-pagination .wp-pagenavi .pages {
+  /* 総ページ表記 */
+  margin-right: 14px;
 }
 @media (max-width: 640px) {
-  .c-pagination__page-count {
+  .c-pagination .wp-pagenavi .pages {
     display: none;
   }
 }
-.c-pagination__ul {
-  display: -webkit-box;
-  display: -ms-flexbox;
-  display: flex;
-}
-.c-pagination__li {
-  font-family: "Roboto";
+.c-pagination .wp-pagenavi .current,
+.c-pagination .wp-pagenavi a.page {
+  /* ページボタン */
   margin: 0 7px;
-  padding: 4px 10px;
+  padding: 0 10px;
   border: 1px solid #707070;
+  width: 30px;
+  height: 30px;
+  line-height: 30px;
+  text-align: center;
 }
-.c-pagination__li:first-child, .c-pagination__li:last-child {
-  border: none;
-  margin: 0;
+@media (max-width: 640px) {
+  .c-pagination .wp-pagenavi .current,
+.c-pagination .wp-pagenavi a.page {
+    display: none;
+  }
 }
-.c-pagination__li:nth-child(2) {
+.c-pagination .wp-pagenavi .current:hover,
+.c-pagination .wp-pagenavi a.page:hover {
+  /* ボタンをホバーしたとき */
   color: #fff;
   background-color: #3C2B1C;
 }
+.c-pagination .wp-pagenavi .current {
+  /* 現在のページ */
+  color: #fff;
+  background-color: #3C2B1C;
+}
+.c-pagination .wp-pagenavi .previouspostslink {
+  /* 前へ */
+  margin-right: 7px;
+}
 @media (max-width: 640px) {
-  .c-pagination__li {
-    margin: 0 5px;
-  }
-  .c-pagination__li:not(:first-child):not(:last-child) {
-    /* 最初と最後以外は隠す */
-    visibility: hidden;
-  }
-  .c-pagination__li:first-child::after {
+  .c-pagination .wp-pagenavi .previouspostslink::after {
     content: " 前へ";
     font-family: "M+ Type-1 (general-j) Regular";
-    white-space: nowrap;
   }
-  .c-pagination__li:last-child::before {
+}
+.c-pagination .wp-pagenavi .nextpostslink {
+  /* 次へ */
+  margin-left: 7px;
+}
+@media (max-width: 640px) {
+  .c-pagination .wp-pagenavi .nextpostslink::before {
     content: "次へ ";
     font-family: "M+ Type-1 (general-j) Regular";
-    white-space: nowrap;
   }
 }
 

diff --git a/style.css b/style.css
@@ -2,9 +2,7 @@
 Theme Name: Hamburger
 Description: テーマ開発練習用テーマ
 Version: 1.0.0
-Theme URI: https://***
 Author: Coni
-Author URI: https://***
 Tags: right-sidebar, blog
 License: GNU General Public License v3.0
 License URI: http://www.gnu.org/licenses/gpl-3.0.html

diff --git a/header.php b/header.php
@@ -2,21 +2,8 @@
 <html lang="<?php language_attributes(); ?>">
     <head>
         <meta charset="UTF-8">
-        <!-- <title>Hamburger</title> -->
         <meta name="description" content="ハンバーガーサイト（ダミーサイト）">
         <meta name="viewport" content="width=device-width, initial-scale=1.0">
-        <!-- リセットCSS -->
-        <!-- <link rel="stylesheet" href="https://unpkg.com/modern-css-reset/dist/reset.min.css" /> -->
-        <!-- Webフォント -->
-        <!-- <link rel="preconnect" href="https://fonts.googleapis.com"> -->
-        <!-- <link rel="preconnect" href="https://fonts.gstatic.com" crossorigin> -->
-        <!-- <link href="https://fonts.googleapis.com/css2?family=Roboto:wght@700&display=swap" rel="stylesheet"> -->
-        <!-- <link rel="stylesheet" type="text/css" href="http://mplus-fonts.sourceforge.jp/webfonts/basic_latin/mplus_webfonts.css"> -->
-        <!-- <link rel="stylesheet" type="text/css" href="http://mplus-fonts.sourceforge.jp/webfonts/general-j/mplus_webfonts.css"> -->
-        <!-- スタイルシート -->
-        <!-- <link rel="stylesheet" href="css/style.css"> -->
-        <!-- favicon -->
-        <!-- <link rel="icon" href="img/favicon.ico"> -->
         <?php wp_deregister_script('jquery'); ?> <!-- WP本体からのjs読込を無効化 -->
         <?php wp_head(); ?>
     </head>
@@ -26,10 +13,6 @@
             <!-- header -->
             <header class="l-grid__item1 p-header">
                 <h1 class="p-header__logo c-text__ttl--e"><a href="<?php echo esc_url( home_url( '/' ) ); ?>"><?php bloginfo( 'name' ); ?></a></h1>
-                <!-- <form action="" class="p-search-form" name="search">
-                    <input type="search" placeholder="" class="p-search-form__input c-form__input">
-                    <input type="submit" value="検索" class="p-search-form__button c-form__button">
-                </form> -->
                 <?php get_search_form(); ?>
                 <!-- tablet/spのメニューボタン -->
                 <h2 class="p-menu-button__open c-button">Menu</h2>

diff --git a/archive.php b/archive.php
@@ -31,20 +31,7 @@
 
         <!-- pagination -->
         <div class="c-pagination">
-            <p class="c-pagination__page-count">page 1/10</p>
-            <ul class="c-pagination__ul">
-                <li class="c-pagination__li">≪</li>
-                <li class="c-pagination__li">1</li>
-                <li class="c-pagination__li">2</li>
-                <li class="c-pagination__li">3</li>
-                <li class="c-pagination__li">4</li>
-                <li class="c-pagination__li">5</li>
-                <li class="c-pagination__li">6</li>
-                <li class="c-pagination__li">7</li>
-                <li class="c-pagination__li">8</li>
-                <li class="c-pagination__li">9</li>
-                <li class="c-pagination__li">≫</li>
-            </ul>
+            <?php wp_pagenavi(); ?>
         </div><!-- ここまでpagination -->
     </div>
 </article><!-- ここまでcontents -->

diff --git a/search.php b/search.php
@@ -34,20 +34,7 @@
 
         <!-- pagination -->
         <div class="c-pagination">
-            <p class="c-pagination__page-count">page 1/10</p>
-            <ul class="c-pagination__ul">
-                <li class="c-pagination__li">≪</li>
-                <li class="c-pagination__li">1</li>
-                <li class="c-pagination__li">2</li>
-                <li class="c-pagination__li">3</li>
-                <li class="c-pagination__li">4</li>
-                <li class="c-pagination__li">5</li>
-                <li class="c-pagination__li">6</li>
-                <li class="c-pagination__li">7</li>
-                <li class="c-pagination__li">8</li>
-                <li class="c-pagination__li">9</li>
-                <li class="c-pagination__li">≫</li>
-            </ul>
+            <?php wp_pagenavi(); ?>
         </div><!-- ここまでpagination -->
     </div>
 </article><!-- ここまでcontents -->
